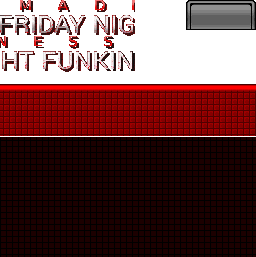
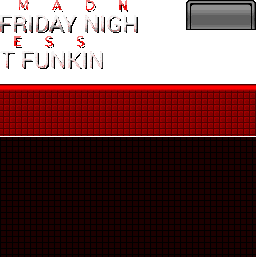
startin menu

Changed region(s): [[0.0, 0.0, 0.5625, 0.2802]]

diff --git a/src/menu.c b/src/menu.c
@@ -103,7 +103,7 @@ static struct
 	} page_param;
 	
 	//Menu assets
-	Gfx_Tex tex_back, tex_ng, tex_credits0, tex_credits1, tex_story, tex_title;
+	Gfx_Tex tex_back, tex_ng, tex_credits0, tex_credits1, tex_story, tex_title, tex_menu0;
 	FontData font_bold, font_arial;
 	
 	Character *tricky; //Title Tricky
@@ -266,6 +266,7 @@ void Menu_Load(MenuPage page)
 	Gfx_LoadTex(&menu.tex_credits1, Archive_Find(menu_arc, "credits1.tim"), 0);
 	Gfx_LoadTex(&menu.tex_story, Archive_Find(menu_arc, "story.tim"), 0);
 	Gfx_LoadTex(&menu.tex_title, Archive_Find(menu_arc, "title.tim"), 0);
+	Gfx_LoadTex(&menu.tex_menu0, Archive_Find(menu_arc, "menu0.tim"), 0);
 	Mem_Free(menu_arc);
 
 	FontData_Load(&menu.font_bold, Font_Bold);
@@ -369,8 +370,8 @@ void Menu_Tick(void)
 				
 				//Draw different text depending on beat
 				RECT src_ng = {0, 0, 128, 128};
-				RECT src_credits0 = { 0, 0, 256, 107 };
-				RECT src_credits1 = { 0, 0, 256, 119 };
+				RECT src_credits0 = { 0, 0, 255, 107 };
+				RECT src_credits1 = { 0, 1, 255, 119 };
 				RECT src_credits2 = { 0, 118, 102, 102};
 				const char **funny_message = funny_messages[menu.page_state.opening.funny_message];
 				
@@ -552,7 +553,7 @@ void Menu_Tick(void)
 			{
 				//Flash white
 				RECT press_src = {0, (animf_count & 1) ? 203 : 221, 207, 18};
-				Gfx_BlitTex(&menu.tex_title, &press_src, 50, SCREEN_HEIGHT - 40);
+				Gfx_BlitTex(&menu.tex_title, &press_src, 50, SCREEN_HEIGHT - 35);
 			}
 			
 			//Draw Girlfriend
@@ -583,14 +584,6 @@ void Menu_Tick(void)
 				#else
 					FIXED_DEC(12,1);
 				#endif
-			
-			//Draw version identification
-			menu.font_bold.draw(&menu.font_bold,
-				"PSXFUNKIN BY CUCKYDEV",
-				16,
-				SCREEN_HEIGHT - 32,
-				FontAlign_Left
-			);
 			
 			//Handle option and selection
 			if (menu.trans_time > 0 && (menu.trans_time -= timer_dt) <= 0)
@@ -660,7 +653,40 @@ void Menu_Tick(void)
 					Trans_Start();
 				}
 			}
-			
+
+			//draw "mad"
+			RECT madness0_src = {0, 0, 138, 33};
+			Gfx_BlitTex(&menu.tex_menu0, &madness0_src, 10, 10);
+
+			//draw "ness"
+			RECT madness1_src = {0, 36, 103, 33};
+			Gfx_BlitTex(&menu.tex_menu0, &madness1_src, madness0_src.w + 11, 10);
+
+
+				//draw normal square
+				RECT squaren_src = {0, 84, 256, 52};
+				RECT squaren_dst = {0,166, SCREEN_WIDTH, 64};
+				Gfx_DrawTex(&menu.tex_menu0, &squaren_src, &squaren_dst);
+
+				//invert square
+				squaren_dst.y = squaren_dst.h;
+				squaren_dst.h = -squaren_dst.h;
+				Gfx_DrawTex(&menu.tex_menu0, &squaren_src, &squaren_dst);
+
+
+					//draw tab
+					RECT tab_src = {186, 0, 69, 30};
+					RECT tab_dst = {226, 155, 69, 30};
+					Gfx_DrawTex(&menu.tex_menu0, &tab_src, &tab_dst);
+
+					//invert tab 1
+					RECT tabi1_dst = {tab_dst.x += 8, tab_dst.y -= 80, 69, -30};
+					Gfx_DrawTexCol(&menu.tex_menu0, &tab_src, &tabi1_dst, 255, 0, 0);
+
+					//invert tab 2
+					RECT tabi2_dst = {tab_dst.x -= 69 + 8, tabi1_dst.y, 69, -30};
+					Gfx_DrawTexCol(&menu.tex_menu0, &tab_src, &tabi2_dst, 255, 0, 0);
+
 			//Draw options
 			s32 next_scroll = menu.select *
 			#ifndef PSXF_NETWORK
@@ -669,42 +695,11 @@ void Menu_Tick(void)
 				FIXED_DEC(12,1);
 			#endif
 			menu.scroll += (next_scroll - menu.scroll) >> 2;
-			
-			if (menu.next_page == menu.page || menu.next_page == MenuPage_Title)
-			{
-				//Draw all options
-				for (u8 i = 0; i < COUNT_OF(menu_options); i++)
-				{
-					menu.font_bold.draw(&menu.font_bold,
-						Menu_LowerIf(menu_options[i], menu.select != i),
-						SCREEN_WIDTH2,
-						SCREEN_HEIGHT2 + (i << 5) - 48 - (menu.scroll >> FIXED_SHIFT),
-						FontAlign_Center
-					);
-				}
-			}
-			else if (animf_count & 2)
-			{
-				//Draw selected option
-				menu.font_bold.draw(&menu.font_bold,
-					menu_options[menu.select],
-					SCREEN_WIDTH2,
-					SCREEN_HEIGHT2 + (menu.select << 5) - 48 - (menu.scroll >> FIXED_SHIFT),
-					FontAlign_Center
-				);
-			}
-			
-			//Draw background
-			Menu_DrawBack(
-				menu.next_page == menu.page || menu.next_page == MenuPage_Title,
-			#ifndef PSXF_NETWORK
-				menu.scroll >> (FIXED_SHIFT + 1),
-			#else
-				menu.scroll >> (FIXED_SHIFT + 3),
-			#endif
-				200 >> 1, 20 >> 1, 20 >> 1,
-				100 >> 1, 20 >> 1, 20 >> 1
-			);
+
+			//draw black square
+			RECT squareb_src = {0,137, 255,120};
+			RECT squareb_dst = {0, 0, 500, 364};
+			Gfx_DrawTex(&menu.tex_menu0, &squareb_src, &squareb_dst);
 			break;
 		}
 		case MenuPage_Story:

diff --git a/src/psx/gfx.c b/src/psx/gfx.c
@@ -239,52 +239,10 @@ void Gfx_DrawTexCol(Gfx_Tex *tex, const RECT *src, const RECT *dst, u8 r, u8 g, 
 		cdst.h = cdst.h * csrc.h / src->h;
 	}
 	
-	//Subdivide if particularly large
-	if (csrc.w > 0x80)
-	{
-		RECT csrc2, cdst2;
-		
-		int srcs = csrc.w / 2;
-		csrc2.x = csrc.x + srcs;
-		csrc2.w = csrc.w - srcs;
-		csrc2.y = csrc.y;
-		csrc2.h = csrc.h;
-		csrc.w = srcs;
-		
-		int dsts = cdst.w / 2;
-		cdst2.x = cdst.x + dsts;
-		cdst2.w = cdst.w - dsts;
-		cdst2.y = cdst.y;
-		cdst2.h = cdst.h;
-		cdst.w = dsts;
-		
-		Gfx_DrawTexCol(tex, &csrc2, &cdst2, r, g, b);
-	}
-	if (csrc.h > 0x80)
-	{
-		RECT csrc2, cdst2;
-		
-		int srcs = csrc.h / 2;
-		csrc2.x = csrc.x;
-		csrc2.w = csrc.w;
-		csrc2.y = csrc.y + srcs;
-		csrc2.h = csrc.h - srcs;
-		csrc.h = srcs;
-		
-		int dsts = cdst.h / 2;
-		cdst2.x = cdst.x;
-		cdst2.w = cdst.w;
-		cdst2.y = cdst.y + dsts;
-		cdst2.h = cdst.h - dsts;
-		cdst.h = dsts;
-		
-		Gfx_DrawTexCol(tex, &csrc2, &cdst2, r, g, b);
-	}
-	
 	//Add quad
 	POLY_FT4 *quad = (POLY_FT4*)nextpri;
 	setPolyFT4(quad);
-	setUVWH(quad, csrc.x, csrc.y, csrc.w, csrc.h);
+	setUVWH(quad, src->x, src->y, csrc.w, csrc.h);
 	setXYWH(quad, cdst.x, cdst.y, cdst.w, cdst.h);
 	setRGB0(quad, r, g, b);
 	quad->tpage = tex->tpage;
